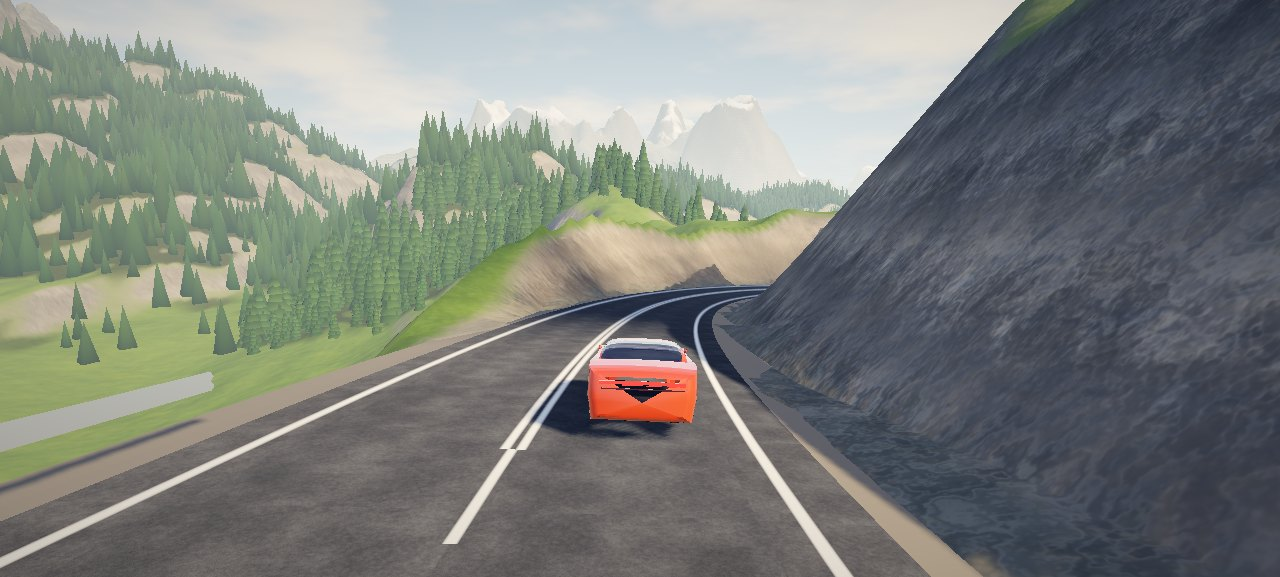
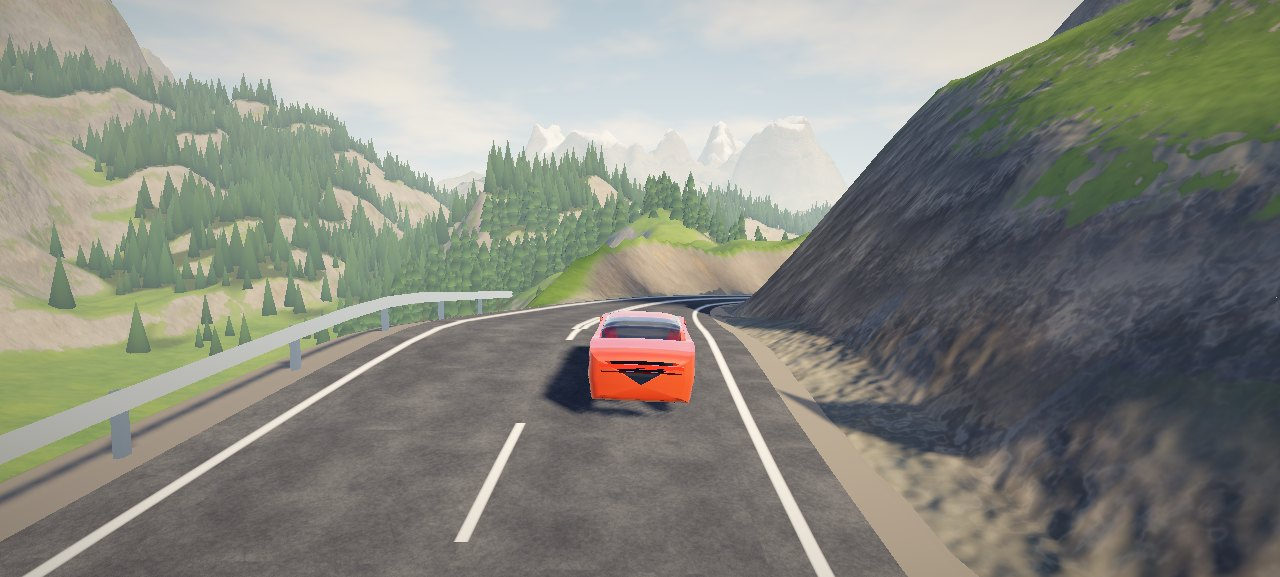
📝 docs: the road profile instrument, fresh shots and the new modules
README:
- The hero is now the page as it opens: a drone view over the viaduct
  hairpins with the instrument in the corner (1920x1080, rendered at 2x).
- A section on the instrument with a 2x crop, saying what each line is.
- Serpentine, cutting and viaduct shots retaken with the current terrain.
  The viaduct tile is now the view from the deck, so it no longer repeats
  the hero. The tunnel shot is unchanged: there is no terrain in it.
- URL parameters as a table (seed, s, cam, auto, debug), the buttons, and
  when to run tools/stamp.mjs.
- How it works: the terrain look, baking across frames, adaptive quality.

docs/design.md:
- Terrain: baking across frames; the crag edge, bedding, ledges, meadow
  patches and outcrops, with their numbers.
- New sections for the interface and for adaptive quality; stamp.mjs in
  the checks, with why it exists.
- Known issues: drop main-thread baking and the missing adaptive quality,
  add the 17 ms surveyor step and the shader-only bedding.

game_check 300 s on seed 42, rerun on this tree: 4822 m, 0 hits,
0 wrecks, so the numbers in the README still hold.

diff --git a/docs/design.md b/docs/design.md
@@ -16,7 +16,8 @@ landform ──► surveyor ──► road ──► corridor ──► terrain 
                           桥隧、提交)
                             │
                             ├──► roadmesh（路面、护栏、桥、隧道）
-                            └──► car / autopilot（物理与驾驶）
+                            ├──► car / autopilot（物理与驾驶）
+                            └──► hud（仪表上的纵断面）
 
 sunlight（太阳遮挡）被地形、路面、树和车共用
 ```
@@ -89,7 +90,17 @@ sunlight（太阳遮挡）被地形、路面、树和车共用
 - 凹度：比四邻低多少。
 - 林木密度，以及挖深、填高、到路的距离。
 
-着色器按坡度和海拔混合草地、碎石、岩石、雪，每条边界都被噪声打散，不会变成等高线。岩石有层理、近处细纹、垂直水渍和缝隙遮蔽。新切坡更亮更暖。路肩碎石只画在地面段两侧，桥下和隧道上方就是普通山坡。1 km 外由着色器按同一个密度函数画树冠。
+**分帧烘焙。** 一个近处块要算 5–10 ms，一帧给不起。`_bake()` 是生成器，每算完几行让出一次；`update()` 每帧给它 4 ms，时间到了就停，下一帧从原处接着算。一次只烤一块。粗块先烤：花同样的工夫，粗块盖住的地面最多。车走远、这块不再需要，或者新提交的路改了它下面的地面（`invalidate()`），算到一半的块直接丢掉。启动时 `warmUp()` 同步烤完第一帧要用的块；无头检查（`?run=N`）全部同步。
+
+着色器按坡度和海拔混合草地、碎石、岩石、雪，每条边界都被噪声打散，不会变成等高线。
+
+- **崖边。** 坡度加三种尺度的噪声，超过 0.265（约 43°）就是岩石。边缘只留一个像素左右的过渡（按 `fwidth` 算），所以草皮在崖边断得利落，又不闪。300 m 到 2 km 之间过渡带逐渐放宽，远处的轮廓交给大尺度噪声。
+- **岩层。** 层面高度是海拔加一个公里尺度的褶皱，起伏几十米，所以层理会斜着穿过一面山。约 29 m 一层，厚薄不一，每层一个色调，从冷灰到暖赭；大约四分之一是更软更暗的泥灰岩；每层底部略暗。层理只在坡度 0.3–0.5 以上的陡壁和切坡上完全显现，其余地方只留 30%，否则缓坡上只会描出等高线。层内十几米一道的层面线在 250 m 到 1.2 km 间淡出，140 m 内再叠 3 m 一道的细层。
+- **窄台。** 每层顶部一道，林线以下是草，以上是碎石，泥灰岩层上更宽。只出现在坡度 0.3–0.55 的天然岩面上；更缓的地方它会变成沿等高线的条纹。
+- **草地。** 从低处的绿到林线附近的橄榄色。两种几十米大小的片，偏干发黄、偏湿发深，各占约四分之一；阈值按细节纹理实测的分布定，原来的阈值在 95 分位以上，几乎不出现。沟里更绿，梁上更干，变陡的地方草更薄。
+- **露头。** 草坡变陡、靠近崖壁的地方，岩石成簇露出来，和崖壁是同一种石头，周围的草皮压暗一圈。遮罩取模糊过的噪声（mip 偏移 2），所以是一块块的，不是碎点；开阔草地和路堤上没有。
+
+岩石还有垂直水渍和缝隙遮蔽。新切坡更亮更暖，还没有水渍。路肩碎石只画在地面段两侧，桥下和隧道上方就是普通山坡。1 km 外由着色器按同一个密度函数画树冠。
 
 阳光项乘以几何法线的朝向：细节法线可以让坡面起伏，但不能把背对太阳的墙照亮。
 
@@ -97,7 +108,7 @@ sunlight（太阳遮挡）被地形、路面、树和车共用
 
 `vegetation.js` 只是一个密度函数：海拔、坡度、林线、离路远近、切坡和路堤都会压低它。
 
-`forest.js` 在 160 m 的块上按 5 m 抖动网格撒云杉，树站在修路后的地面上，所以不会长在切坡、路堤或沥青上。三档细节：190 m 内七层树冠，330 m 内三层（两档都投影），1 km 内一个锥体。每棵树带自己的阳光值和色调。
+`forest.js` 在 160 m 的块上按 5 m 抖动网格撒云杉，树站在修路后的地面上，所以不会长在切坡、路堤或沥青上。三档细节：190 m 内七层树冠，330 m 内三层（两档都投影），1 km 内一个锥体。每棵树带自己的阳光值和色调。森林块和地形块一样分帧烘焙，每帧 2 ms。
 
 ## 7. 路面、桥、隧道 `render/roadmesh.js`
 
@@ -123,7 +134,29 @@ sunlight（太阳遮挡）被地形、路面、树和车共用
 
 **表现。** 车轮转动、前轮转向、悬挂俯仰侧倾。追车镜头的位置、朝向、注视点各有弹簧，镜头会滞后、过弯外摆、随速度拉远；机位之间平滑过渡。镜头不会钻进地面或隧道顶。
 
-## 10. 检查
+## 10. 界面 `ui/hud.js` · `index.html`
+
+**仪表**是一张路线纵断面，画法照设计图：地面线（浅色的面和细线）、设计线（白线，隧道里画虚线）、桥下每 48 m 一根墩、回头弯一个短刻度、每公里一个桩号。范围是车后 420 m 到车前 2580 m，每 8 m 一个采样。竖向范围总能装下设计线；地面最多计入路面以下 70 m、以上 90 m，所以桥下的峡谷和隧道上的山都看得出形状，路又不会被压成一条直线。范围变化时平滑过渡。开过的部分画淡。120 m 以上的桥和隧道在上方标注长度，像图纸上的尺寸线。
+
+文字每秒更新四次：车速、桩号（K6+827）、海拔、坡度；在桥上或隧道里加一行剩余长度。
+
+仪表只读已提交的路面采样。桥和隧道按弧长扫成一段段区间，车后的路被丢掉时一起丢掉。
+
+**配色。** 面板是中性的磨砂玻璃，强调色只有一个：#ff6a3d，车漆的颜色，只用在代表车的点和竖线上。
+
+**页面。** 启动画面在第一帧画完后淡出。右下角是机位、自动驾驶、壁纸和 GitHub。窄屏下重新排布；系统设了"减少动态效果"时关掉过渡和启动动画。`?uishot=1` 把画好的一帧作为图片垫在界面下面，因为无头 Chrome 的整页截图在虚拟时间下拿不到 WebGL 层。
+
+## 11. 画质 `render/quality.js`
+
+目标是在任何显卡上稳住帧率。帧率按半秒一个窗口统计；含有超过 0.25 s 长帧的窗口（切标签页、卡顿）不计入。
+
+- **降。** 连续 4 个窗口（2 秒）都低于 55 fps，降一档。档位是渲染倍率的 1、0.85、0.72、0.6、0.5 倍；最后两档阴影贴图从 2048 降到 1024。集成显卡多半卡在填充率上，所以先让分辨率。
+- **升。** 连续 16 个窗口（8 秒）都高于 58 fps，升一档。
+- **不来回跳。** 因为太慢被放弃的那一档，60 秒内不再试，每失败一次等待时间翻倍。每次换档后清空记录，静置 3 秒。
+
+无头运行按固定的 1/60 s 步进，没有可适应的，所以关闭；`adaptive: false` 也会关闭。
+
+## 12. 检查
 
 | 脚本 | 做什么 |
 |---|---|
@@ -132,13 +165,16 @@ sunlight（太阳遮挡）被地形、路面、树和车共用
 | `tools/game_check.mjs [秒] [seed]` | 无头 Chrome 跑真实页面；检查行驶距离、碰撞、翻车、路面块和几何体数量、树 |
 | `tools/presentation_check.mjs` | 车轮、转向、车身姿态、镜头滞后确实在动 |
 | `tools/shot.mjs` | 一次运行里同时出图和诊断数据 |
+| `tools/stamp.mjs [--check]` | 给 import map 里的每个模块和 `car.glb` 的地址加上内容哈希（`?v=`）；`--check` 只检查不改，`game_check` 先跑它 |
 
 页面带 `?run=N` 时同步跑 N 帧、画最后一帧，并把诊断数据写进 DOM，检查脚本读的就是画出这一帧的那次运行。
 
+**为什么要 stamp。** 线上的 `.js` 在 Cloudflare 后面缓存四小时，每个 ES module 单独缓存。发布后浏览器可能拿到新的 `index.html`，却还在跑上一版的 `game.js`，两者对不上（`game.warmUp is not a function` 就是这么来的）。加了内容哈希，改过的文件换了地址，会重新下载；没改的照旧走缓存。仍然没有构建步骤：不 stamp 页面照样能跑，只是发布不安全。
+
 ## 已知问题与下一步
 
-- 远处背阴的大岩壁偏平，草坡太均匀，缺少大尺度的崖带和碎石。
-- 地形块在主线程烘焙，一个近处块 10–20 ms，会掉一帧。应移进 Worker。
-- 一帧 0.75–2.1 M 三角形、300–400 次绘制，还没有自适应画质。
+- 岩层只在着色里，几何上没有台阶；崖脚还没有碎石锥。
+- 地形和森林仍在主线程烘焙，只是分了帧；选线偶尔一步要 17 ms 左右，会掉一帧。两者都可以移进 Worker。
+- 一帧 0.75–2.2 M 三角形、300–450 次绘制。自适应画质只降分辨率和阴影，不减几何。
 - 按里程排世界、过渡门、其余十个世界。
 - 声音；隧道出口的强光；手动驾驶手感。
